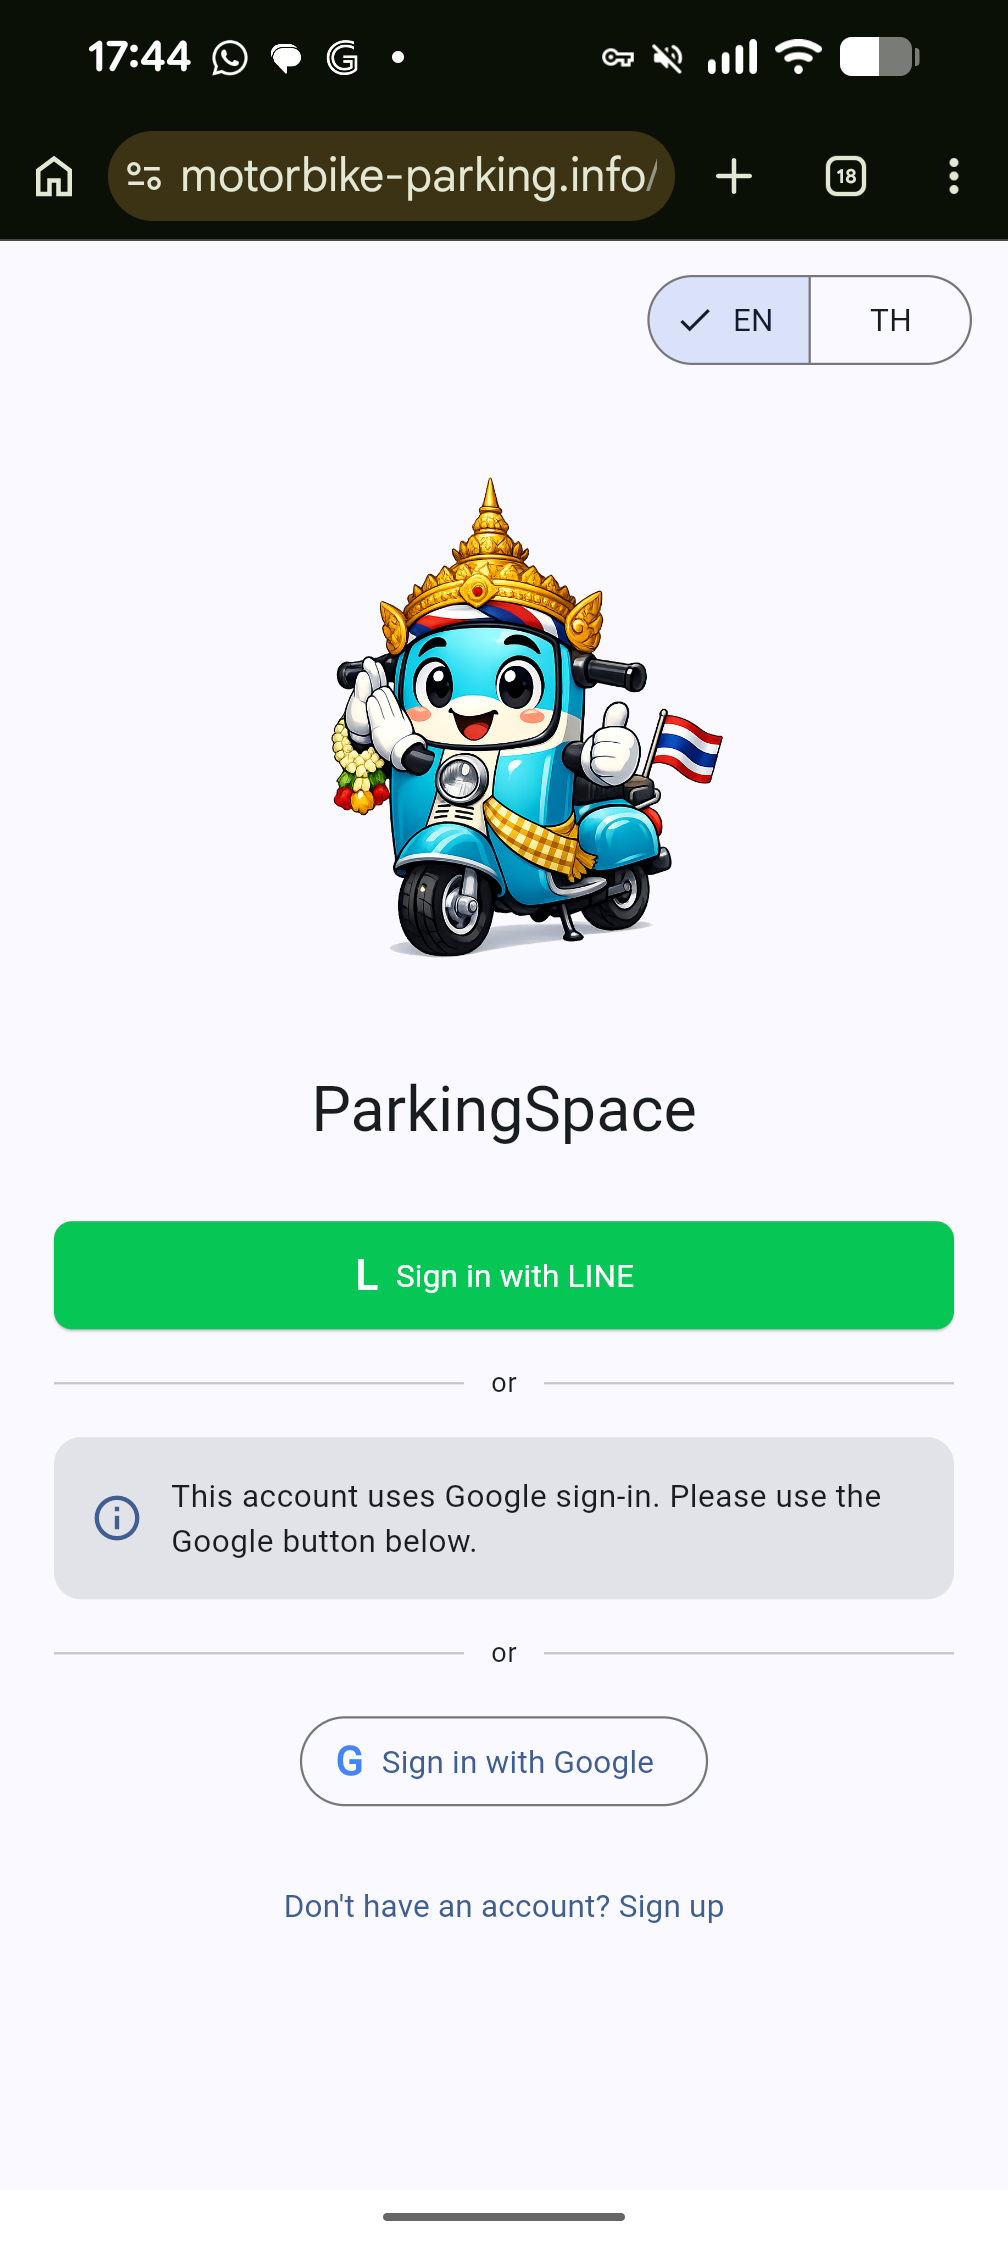
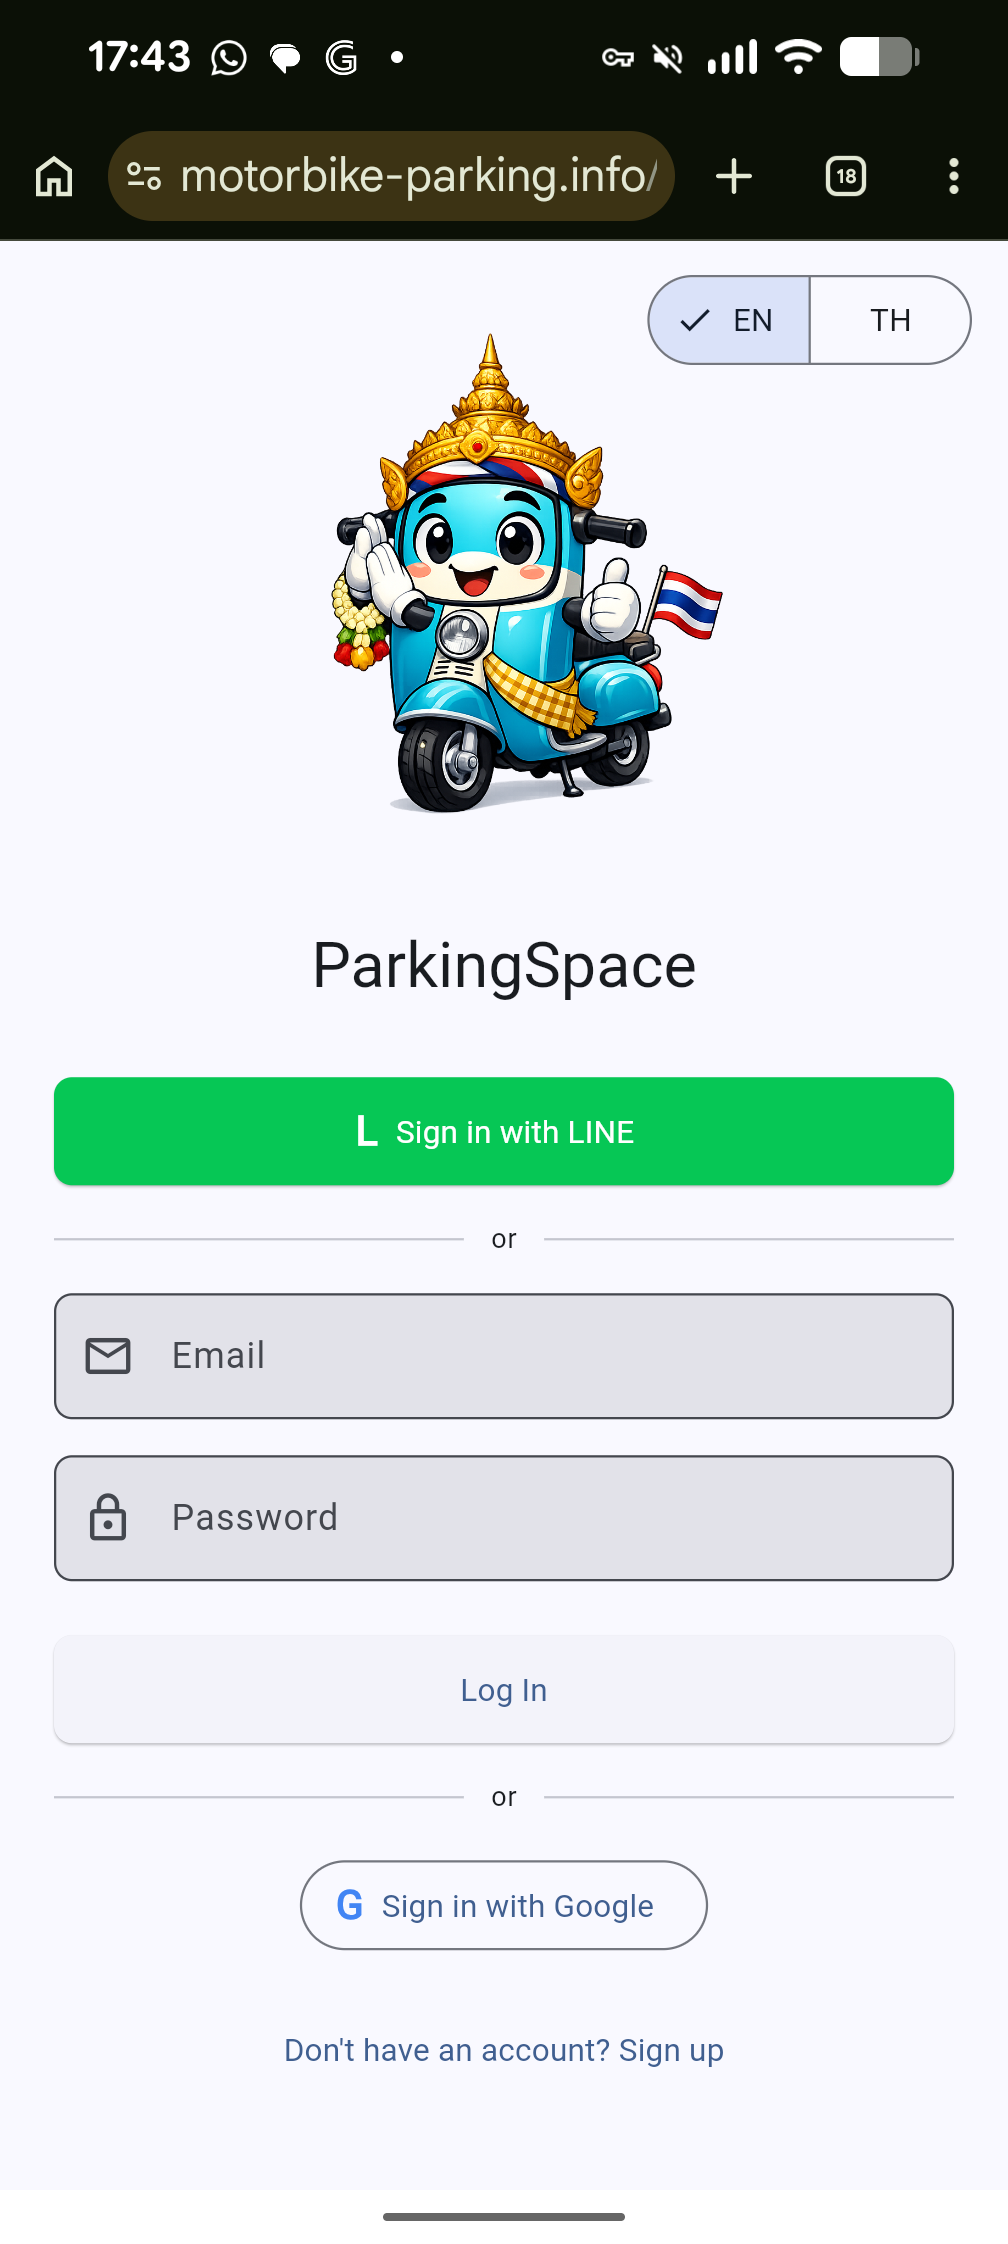
ParkingSpace: operator pitch + better login screenshot
- Add B2B pitch for parking-lot owners on both the homepage card and
  the per-app page. Homepage gets a tight one-liner ("Run a lot?
  Mount a phone. Take the cut. Zero upfront.") via a new optional
  `b2b` field on the apps schema, rendered under the consumer summary
  with a small purple left-border to mark it as the supply-side angle.
  Per-app page expands into a "For parking-lot owners" section with
  four bullets explaining the zero-upfront / revenue-share model.
- Drop "admin" from the role list (consumer / attendant / owner only).
- Move login + active-session screenshots inline above the operator
  section so the consumer story has visuals where it lives; history
  and operator stay in the bottom screenshots grid.
- Swap login.png — the previous file was a Google account-chooser
  (and leaked a real Gmail address); replaced with the actual
  ParkingSpace login screen (mascot + LINE/Email/Google + EN/TH toggle).

diff --git a/src/content.config.ts b/src/content.config.ts
@@ -19,8 +19,12 @@ const apps = defineCollection({
 		// Any JS-parseable date string in the frontmatter becomes a Date.
 		// Used to sort upcoming-first on the homepage gallery.
 		date: z.coerce.date(),
-		// Short teaser line shown on the listing / home page.
+		// Short teaser line shown on the listing / home page (consumer-facing).
 		summary: z.string().optional(),
+		// Optional second teaser aimed at the supply side / B2B angle —
+		// rendered below the summary on the gallery card, slightly muted.
+		// E.g. ParkingSpace uses it to pitch lot owners.
+		b2b: z.string().optional(),
 		// Pull an app out of the published list without deleting the file.
 		draft: z.boolean().default(false),
 		// Screenshots rendered below the prose on the per-app landing page.

diff --git a/src/content/apps/parking-space.md b/src/content/apps/parking-space.md
@@ -2,10 +2,9 @@
 title: ParkingSpace
 date: 2026-06-01
 summary: Arrive, park, pay. Done.
+b2b: Run a lot? Mount a phone. Take the cut. Zero upfront.
 draft: false
 screenshots:
-  - { src: "/screenshots/parking-space/login.png", alt: "Login screen" }
-  - { src: "/screenshots/parking-space/active.png", alt: "Active parking session" }
   - { src: "/screenshots/parking-space/history.png", alt: "Payment history" }
   - { src: "/screenshots/parking-space/operator.png", alt: "Operator view" }
 ---
@@ -13,3 +12,19 @@ screenshots:
 Motorbike parking the way it should be — a 30-second transaction, no booth, no cash, no envelope.
 
 Currently operating in Thailand.
+
+<div style="display: grid; grid-template-columns: 1fr 1fr; gap: 1rem; margin: 2.5rem 0;">
+  <img src="/screenshots/parking-space/login.png" alt="Login screen" style="margin: 0; max-width: 100%; height: auto;" />
+  <img src="/screenshots/parking-space/active.png" alt="Active parking session" style="margin: 0; max-width: 100%; height: auto;" />
+</div>
+
+## For parking-lot owners
+
+If you run a lot, you can run it on ParkingSpace today.
+
+- **Zero upfront cost.** No install fee, no subscription, no hardware to buy.
+- **Use what you already have.** Already own a phone or tablet? Mount it at the lot. That's the entire install.
+- **Revenue share, not a bill.** ParkingSpace earns a small percentage of each paid session. You keep the rest. If nobody parks, we earn nothing.
+- **One app, every role.** Switch between consumer, attendant, and owner views from the same install.
+
+If you already have a screen to mount, your out-of-pocket setup cost is zero. Your only commitment is the cut we take when customers actually pay.